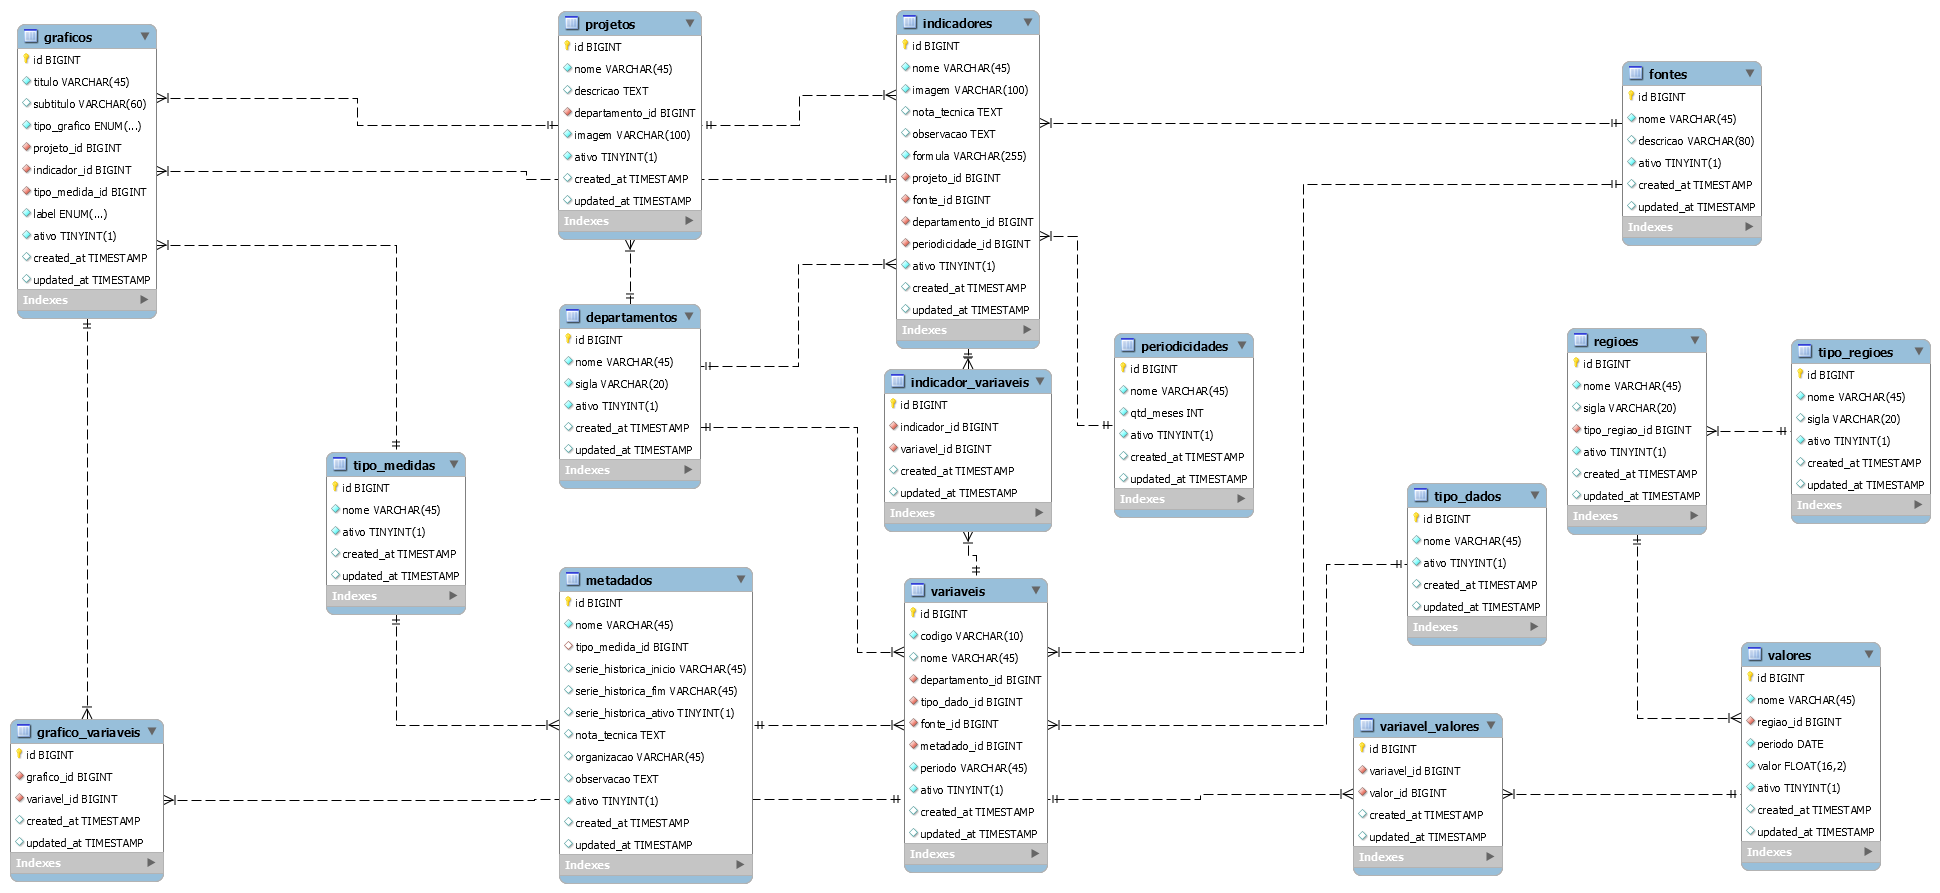
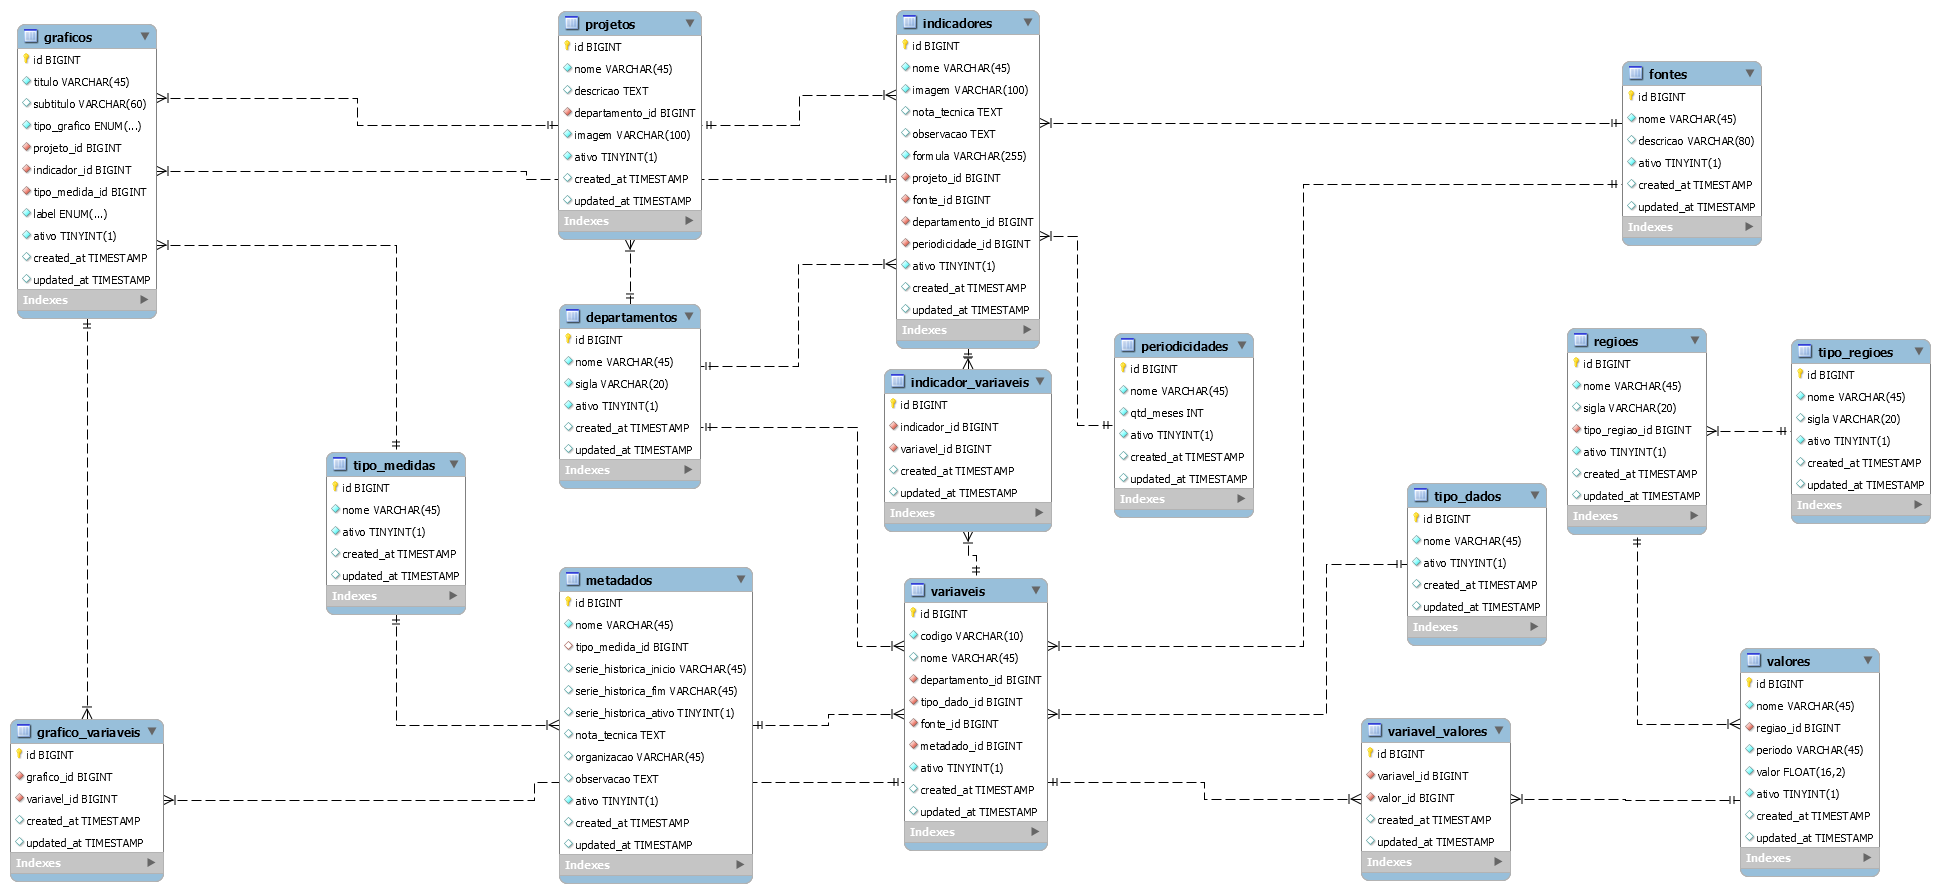
revisão de migrations

diff --git a/database/migrations/2024_03_06_184010_create_metados_table.php b/database/migrations/2024_03_06_184010_create_metados_table.php
@@ -11,7 +11,7 @@ return new class extends Migration
      */
     public function up(): void
     {
-        Schema::create('metados', function (Blueprint $table) {
+        Schema::create('metadados', function (Blueprint $table) {
             $table->id();
             $table->string('nome', 45);
             $table->foreignId('tipo_medida_id')->nullable()->constrained('tipo_medidas');
@@ -31,6 +31,6 @@ return new class extends Migration
      */
     public function down(): void
     {
-        Schema::dropIfExists('metados');
+        Schema::dropIfExists('metadados');
     }
 };

diff --git a/database/migrations/2024_03_06_162501_create_valores_table.php b/database/migrations/2024_03_06_162501_create_valores_table.php
@@ -15,7 +15,7 @@ return new class extends Migration
             $table->id();
             $table->string('nome', 45);
             $table->foreignId('regiao_id')->constrained('regioes');
-            $table->date('periodo');
+            $table->string('periodo',45); //pode assumir qualquer valor, de número a texto. Pode ser ano, semestre, mês, etc
             $table->float('valor', 16,2);
             $table->boolean('ativo')->default(1);
             $table->timestamps();
